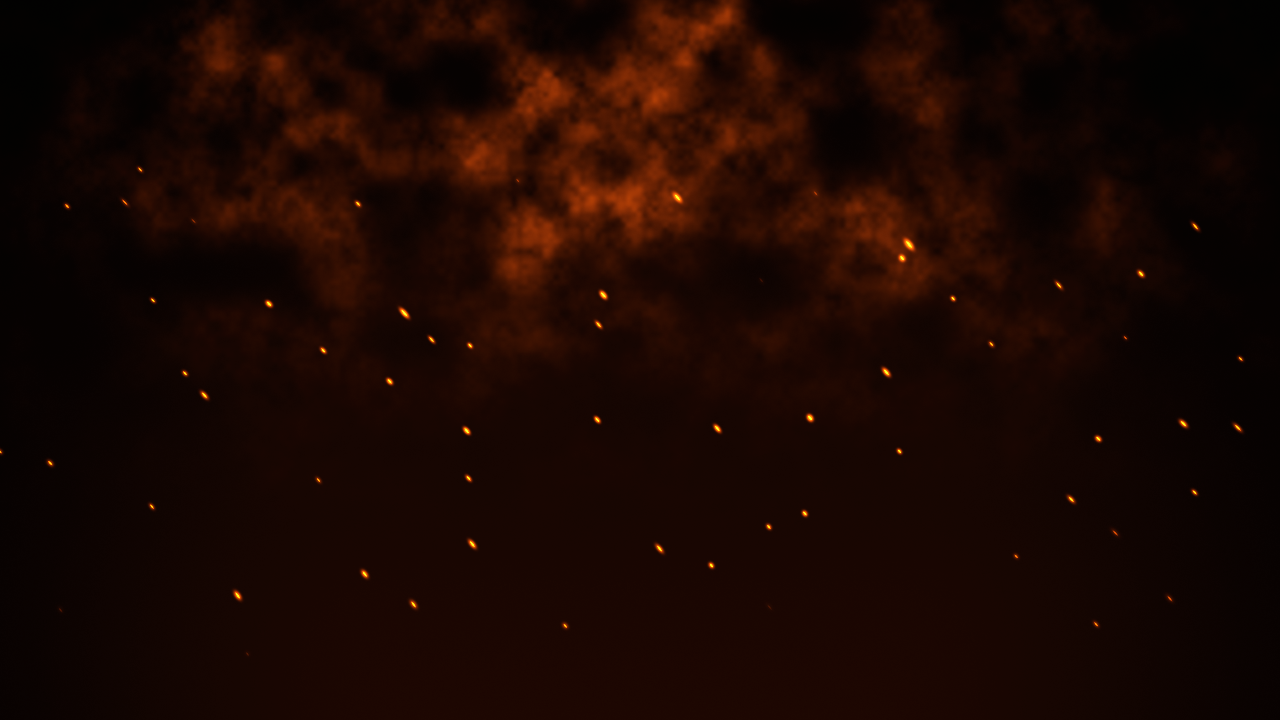
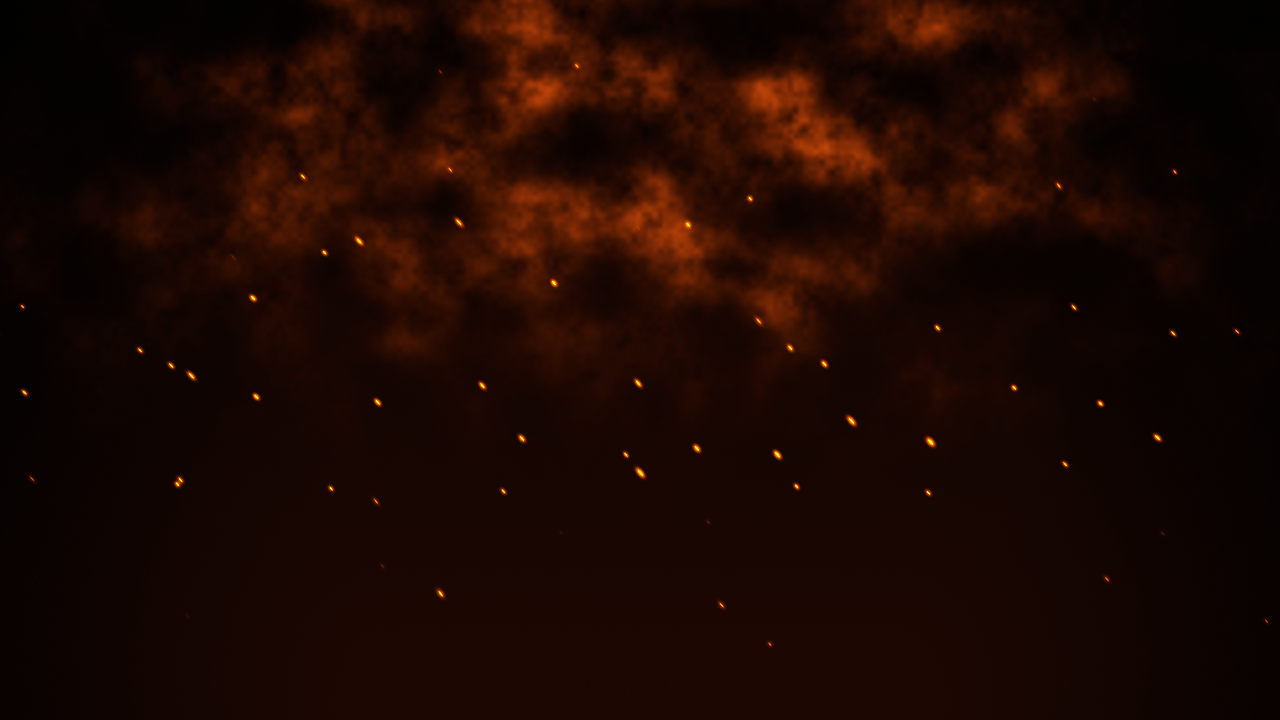
Correct ember drift, Matrix glyph timing and room clearance

diff --git a/snippets/ember-sparks/README.md b/snippets/ember-sparks/README.md
@@ -15,7 +15,7 @@ Canonical source: `snippets/ember-sparks/code.metal`. Example: `snippets/ember-s
 
 ## Coordinates
 
-`uv` is in lattice cells (one spark per cell): the example uses `p * 2.8125 * 1.4`, which gives about 4 cells per screen height. `screen` is the original sketch's screen position (`p * 2.8125`, vertical range about -1.4 to 1.4) and only drives the per-spark appear/disappear heights. `phase = (t mod 7680) / 7680` is the loop fraction: every drift (1/3 cell per second along (0.7, 1.0)), spin (whole turns per loop, within ±1 rad/s) and flutter (about 1.4 changes per second) completes whole cycles per loop, so the motion is seamless and stays precise at large `t`. `layerSeed` is any small number (layer index) that offsets the lattice.
+`uv` is in lattice cells (one spark per cell): the example uses `p * 2.8125 * 1.4`, which gives about 4 cells per screen height. `screen` is the original sketch's screen position (`p * 2.8125`, vertical range about -1.4 to 1.4) and only drives the per-spark appear/disappear heights. `phase = (t mod 7680) / 7680` is the loop fraction: every sampling drift (`n/3 * (0.7, -1.0)` lattice cells per second), spin (whole turns per loop, within ±1 rad/s) and flutter (about 1.4 changes per second) completes whole cycles per loop, so the motion is seamless and stays precise at large `t`. The drift is added to Y-up sampling coordinates, so visible sparks move in the opposite direction, left and upward. `layerSeed` is any small number (layer index) that offsets the lattice.
 
 ## Tuning
 

diff --git a/snippets/box-room/README.md b/snippets/box-room/README.md
@@ -21,6 +21,8 @@ Room space: the box is centred at the origin, so pass `ro - roomCentre`. `ro` mu
 
 Shrink `halfExtents` by an object's radius so it never clips the walls. Give each object its own lane (centre plus extents) and different per-axis speeds (0.15–0.35 units/s reads as calm) to avoid clustering.
 
+For a rotating object, use its maximum radius over all orientations (for example, `size * sqrt(3)` for a cube of half-extent `size` or the symmetric-slab octahedron in Holodeck Grid). A lane offset from the room centre must satisfy `laneHalf + abs(laneCentre) + radius <= roomHalf`; a small additional clearance avoids contact. Reject object entry hits at or beyond `hdRoomHit(...).w` before compositing them over the room.
+
 ## Limitations
 
 The exit test assumes the origin is inside the room. Bounces are mirror reflections with no collisions between objects. `hdBounceInBox` wraps whole and fractional seconds separately; the residual error at one day of runtime is about 0.003 units for typical speeds, below the visible threshold.
